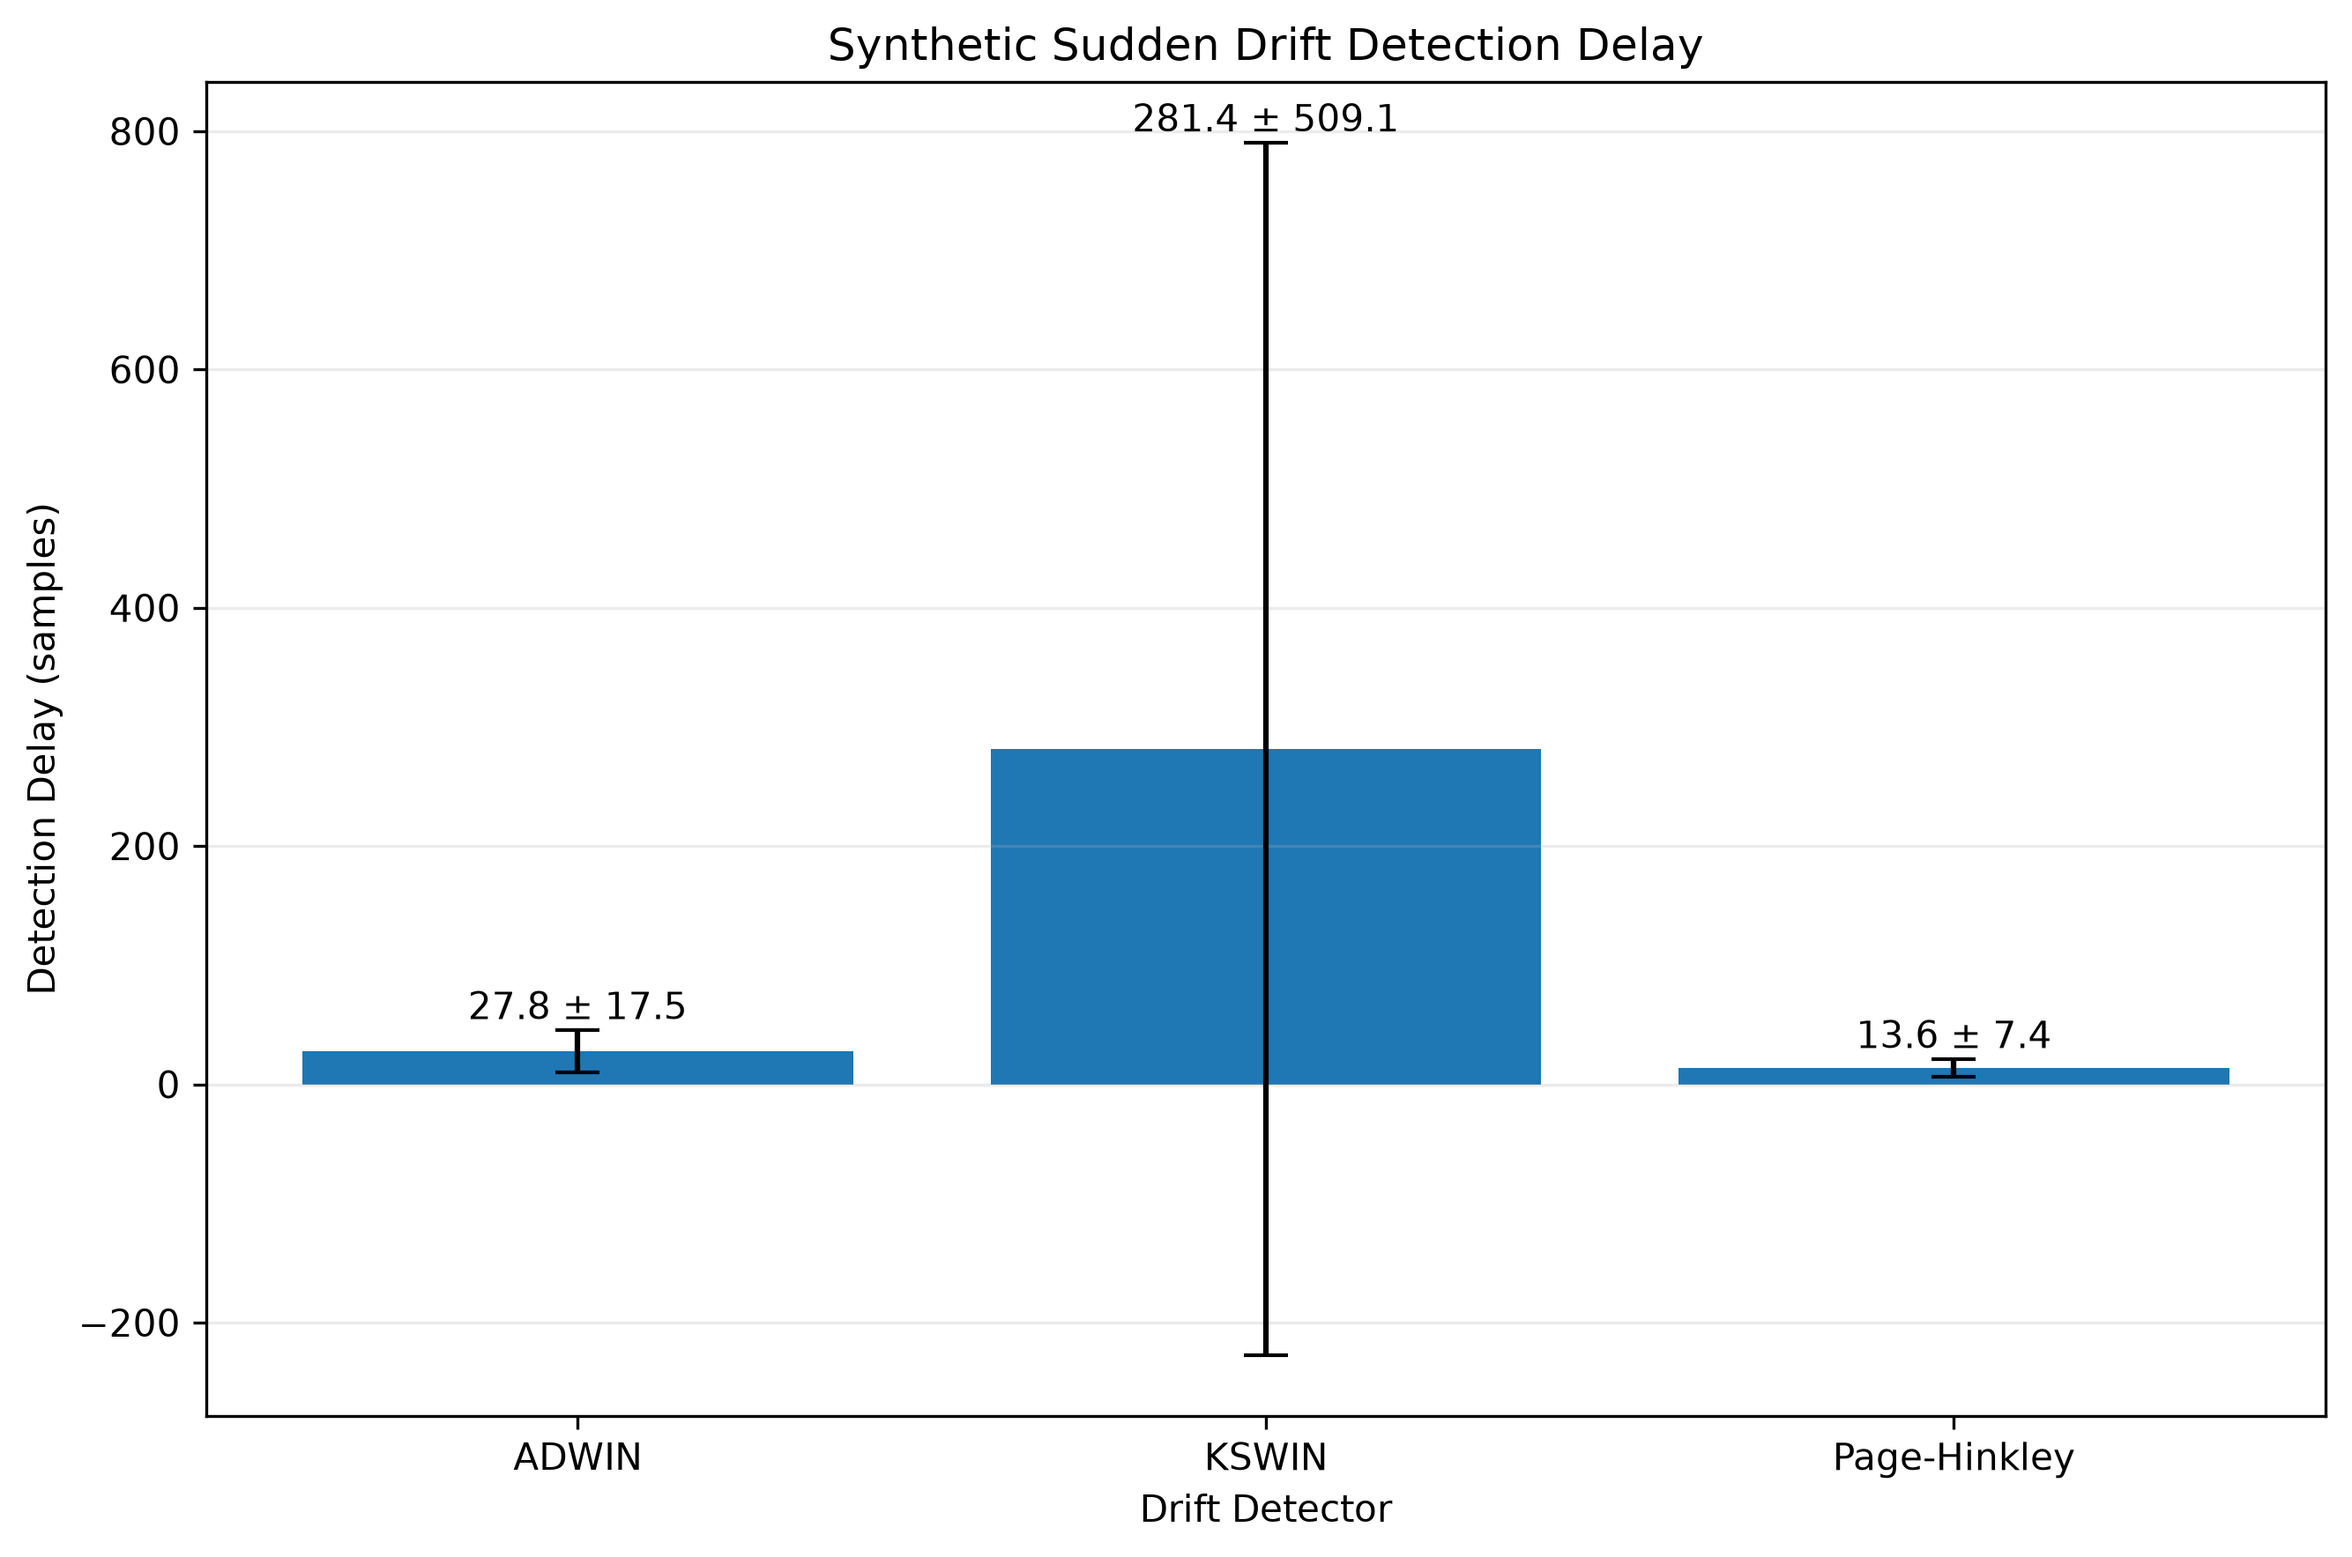
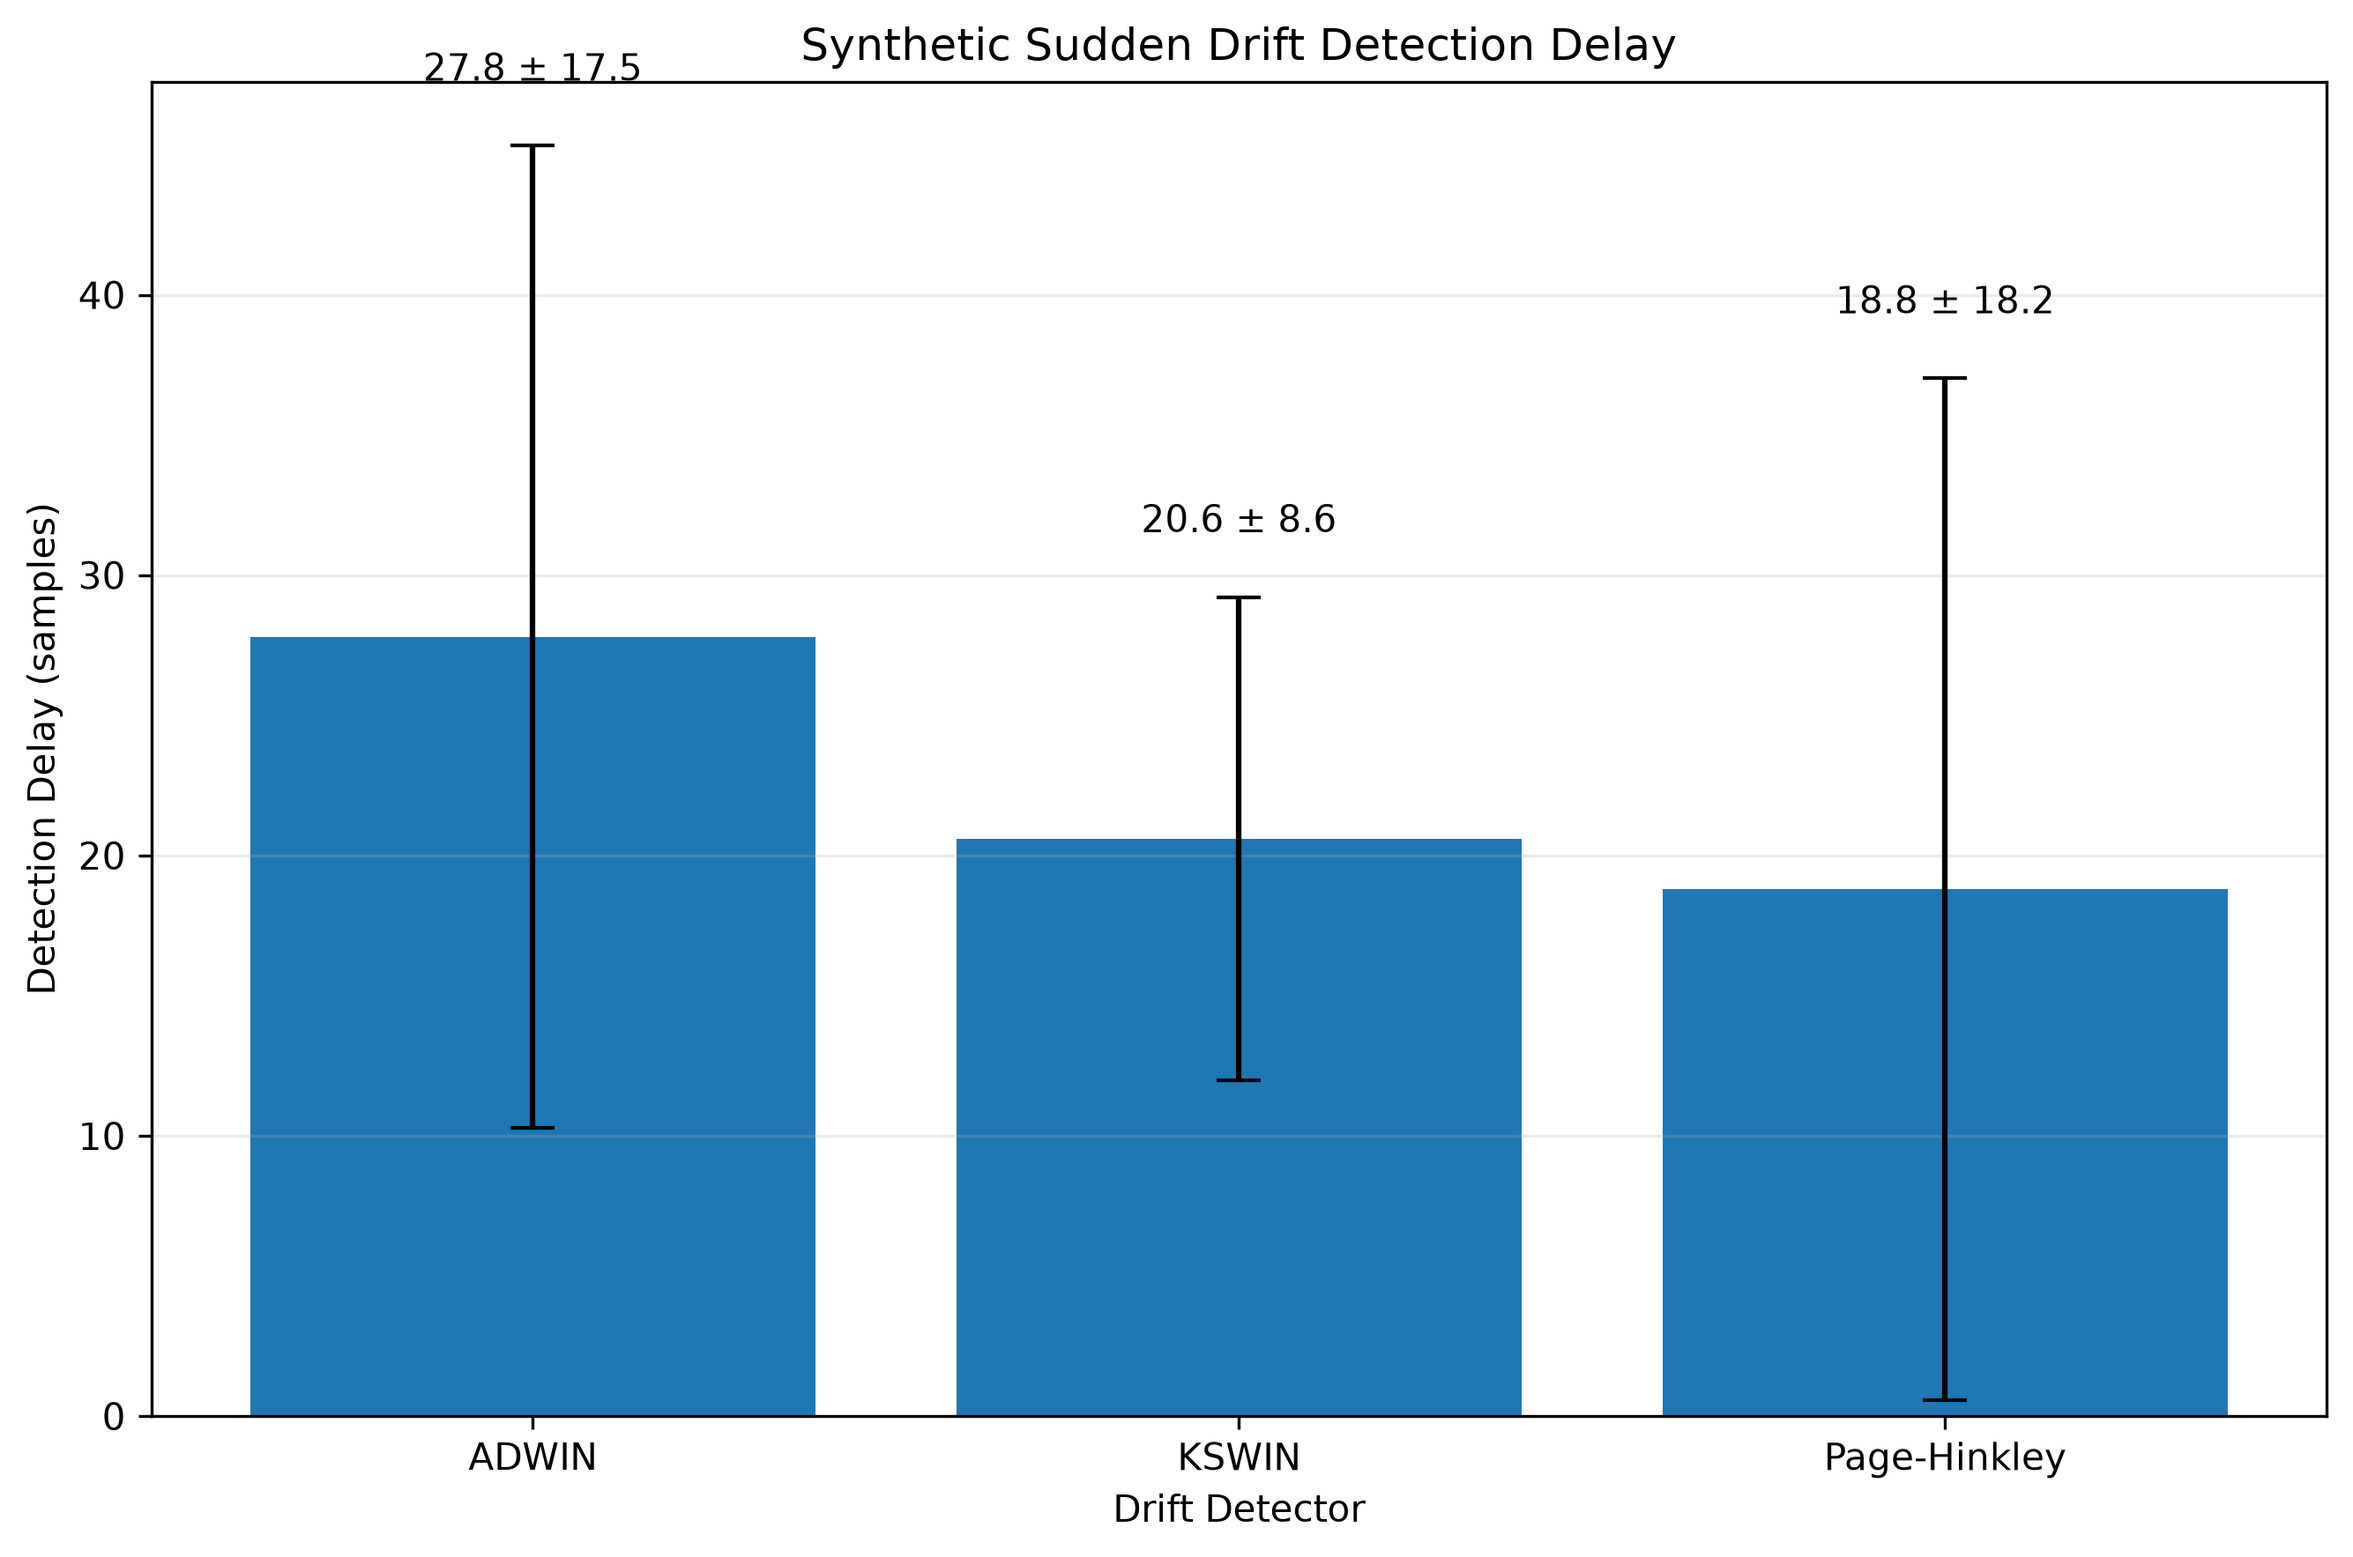
fix: align sudden drift benchmark seeds to 1-5

diff --git a/scripts/benchmark_sudden_drift.py b/scripts/benchmark_sudden_drift.py
@@ -19,7 +19,7 @@ NUM_SAMPLES = 20000
 TRUE_CHANGEPOINT = 2000
 
 # Five independent synthetic runs
-SEEDS = [42, 43, 44, 45, 46]
+SEEDS = [1, 2, 3, 4, 5]
 
 parameter_text = {
     "ADWIN": "delta=0.002",
